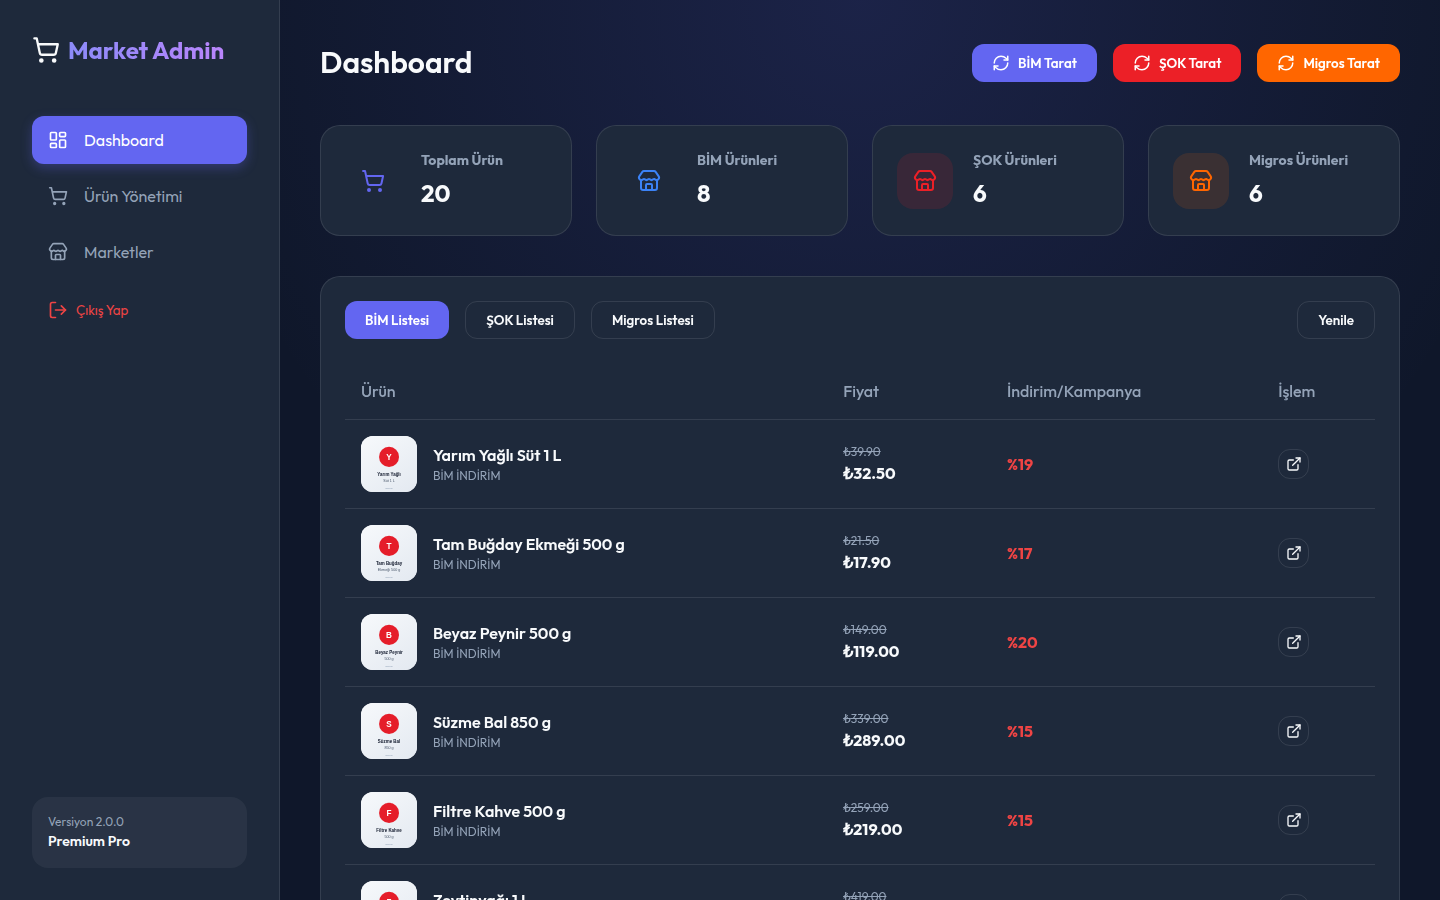
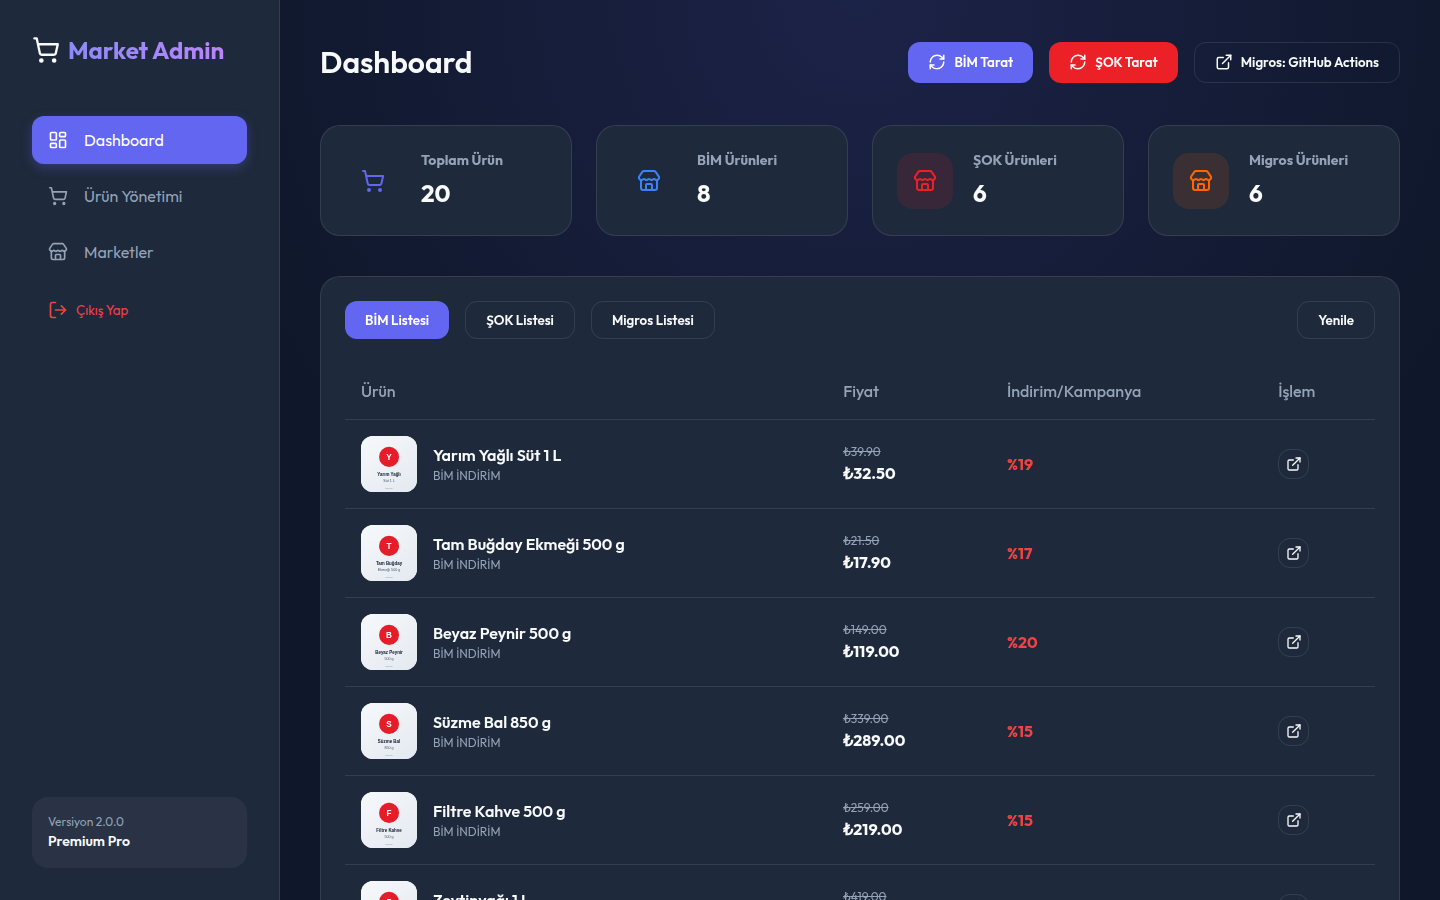
docs: describe the admin Migros workflow link and retake its screenshot
Claude-Session: https://claude.ai/code/session_01LbmqPT9km1gDH52PUG2ZLt

Changed region(s): [[0.625, 0.0311, 0.9688, 0.0933]]

diff --git a/README.md b/README.md
@@ -48,7 +48,7 @@ Supermarket chains publish their weekly "aktüel" deals on separate websites. Ma
 - **Deals feed** — products from BİM, ŞOK and Migros with market tabs, search, discount badges, ŞOK promotion banners ("50 TL üzeri …"), favourites and a share button. Responsive down to phone width.
 - **Accounts** — register / login with JWT and bcrypt password hashing; favourites are stored per user.
 - **Password reset API** — single-use 6-digit codes that expire after 15 minutes, with an attempt limit. E-mail delivery is not connected yet (see [Status](#status-and-roadmap)).
-- **Admin panel** — per-market product counts and lists, and buttons to start the server-side BİM / ŞOK scrape. The API also has admin-only create / update / delete routes for markets and products.
+- **Admin panel** — per-market product counts and lists, buttons to start the server-side BİM / ŞOK scrape, and a link to the GitHub Actions workflow that refreshes Migros (it can also be run by hand there). The API also has admin-only create / update / delete routes for markets and products.
 - **Scrapers** — `scripts/scrape-bim.js`, `scrape-sok.js` (axios + Cheerio) and `scrape-migros.js` (Migros product search endpoint) push data to `/api/products/bulk`, authenticated with a scraper API key. A full scrape replaces the market's old products.
 - **Scheduled updates** — `.github/workflows/scrape-all.yml` runs the scrapers four times a day with one retry per market and wakes the free-tier API first.
 - **API security** — Helmet, CORS allow-list, rate limits, zod validation, admin-only routes, audit log (details in [Security](#security)).
@@ -222,7 +222,7 @@ Market zincirleri haftalık "aktüel" fırsatlarını ayrı sitelerde yayınlar.
 - **Fırsat akışı:** BİM, ŞOK ve Migros ürünleri; market sekmeleri, arama, indirim rozetleri, ŞOK kampanya bantları ("50 TL üzeri …"), favoriler ve paylaşma butonu. Telefon genişliğine kadar duyarlı tasarım.
 - **Hesaplar:** JWT ile kayıt / giriş, bcrypt ile şifre hash'leme; favoriler kullanıcı bazında saklanır.
 - **Şifre sıfırlama API'si:** 15 dakika geçerli, tek kullanımlık, deneme sınırı olan 6 haneli kodlar. E-posta gönderimi henüz bağlı değil (bkz. [Durum ve yol haritası](#durum-ve-yol-haritası)).
-- **Yönetim paneli:** market bazında ürün sayıları ve listeleri, sunucu tarafındaki BİM / ŞOK taramasını başlatan butonlar. API ayrıca market ve ürünler için yöneticiye özel ekleme / güncelleme / silme uç noktaları sunar.
+- **Yönetim paneli:** market bazında ürün sayıları ve listeleri, sunucu tarafındaki BİM / ŞOK taramasını başlatan butonlar ve Migros'u güncelleyen GitHub Actions iş akışına bağlantı (iş akışı oradan elle de çalıştırılabilir). API ayrıca market ve ürünler için yöneticiye özel ekleme / güncelleme / silme uç noktaları sunar.
 - **Veri çekiciler:** `scripts/scrape-bim.js`, `scrape-sok.js` (axios + Cheerio) ve `scrape-migros.js` (Migros ürün arama uç noktası) verileri scraper API anahtarıyla `/api/products/bulk` adresine gönderir. Tam bir tarama, marketin eski ürünlerinin yerini alır.
 - **Zamanlanmış güncelleme:** `.github/workflows/scrape-all.yml` günde dört kez çalışır, her market için bir kez yeniden dener ve önce ücretsiz sunucuyu uyandırır.
 - **API güvenliği:** Helmet, CORS izin listesi, istek sınırlama, zod doğrulaması, yöneticiye özel uç noktalar, denetim kaydı (ayrıntılar [Güvenlik](#güvenlik) bölümünde).
